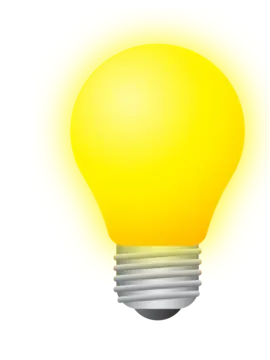
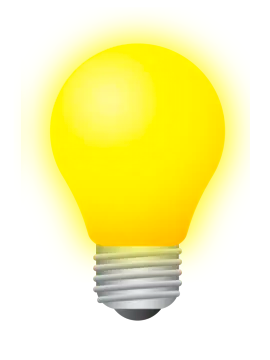
Improve png files

diff --git a/index.html b/index.html
@@ -8,10 +8,13 @@
     <title>JS - Primi passi col DOM</title>
 </head>
 <body class="bg-dark">
-    <div class="container d-flex flex-column align-items-center justify-content-center gap-4">    
-        <img id="lamp" src="./img/white_lamp.png" class="img-fluid " title="Lampadina spenta" alt="Lampadina spenta">
-        <h3 class="text-white">Hai il coraggio di cliccare?</h3>
-        <button id="lightswitch" class="btn btn-light text-center">Accendi</button>
+    <div class="container my-5">
+        <h1 class="text-center">Alone in the Dark (Web)</h1>
+        <div class="d-flex flex-column align-items-center justify-content-center gap-4">    
+            <img id="lamp" src="./img/white_lamp.png" class="img-fluid " title="Lampadina spenta" alt="Lampadina spenta">
+            <h3 class="text-white">Ce l'hai il coraggio di cliccare?</h3>
+            <button id="lightswitch" class="btn btn-light text-center">Accendi</button>
+        </div>
     </div>
 
     <script src="./js/script.js"></script>

diff --git a/js/script.js b/js/script.js
@@ -28,6 +28,6 @@ if (lamp.src.includes("white_lamp.png")) {
     bg.classList.add("bg-dark");
     textLight.classList.remove("text-danger");
     textLight.classList.add("text-white")
-    textLight.innerHTML = "Hai il coraggio di cliccare?"
+    textLight.innerHTML = "Ce l'hai il coraggio di cliccare?"
 }
 })
